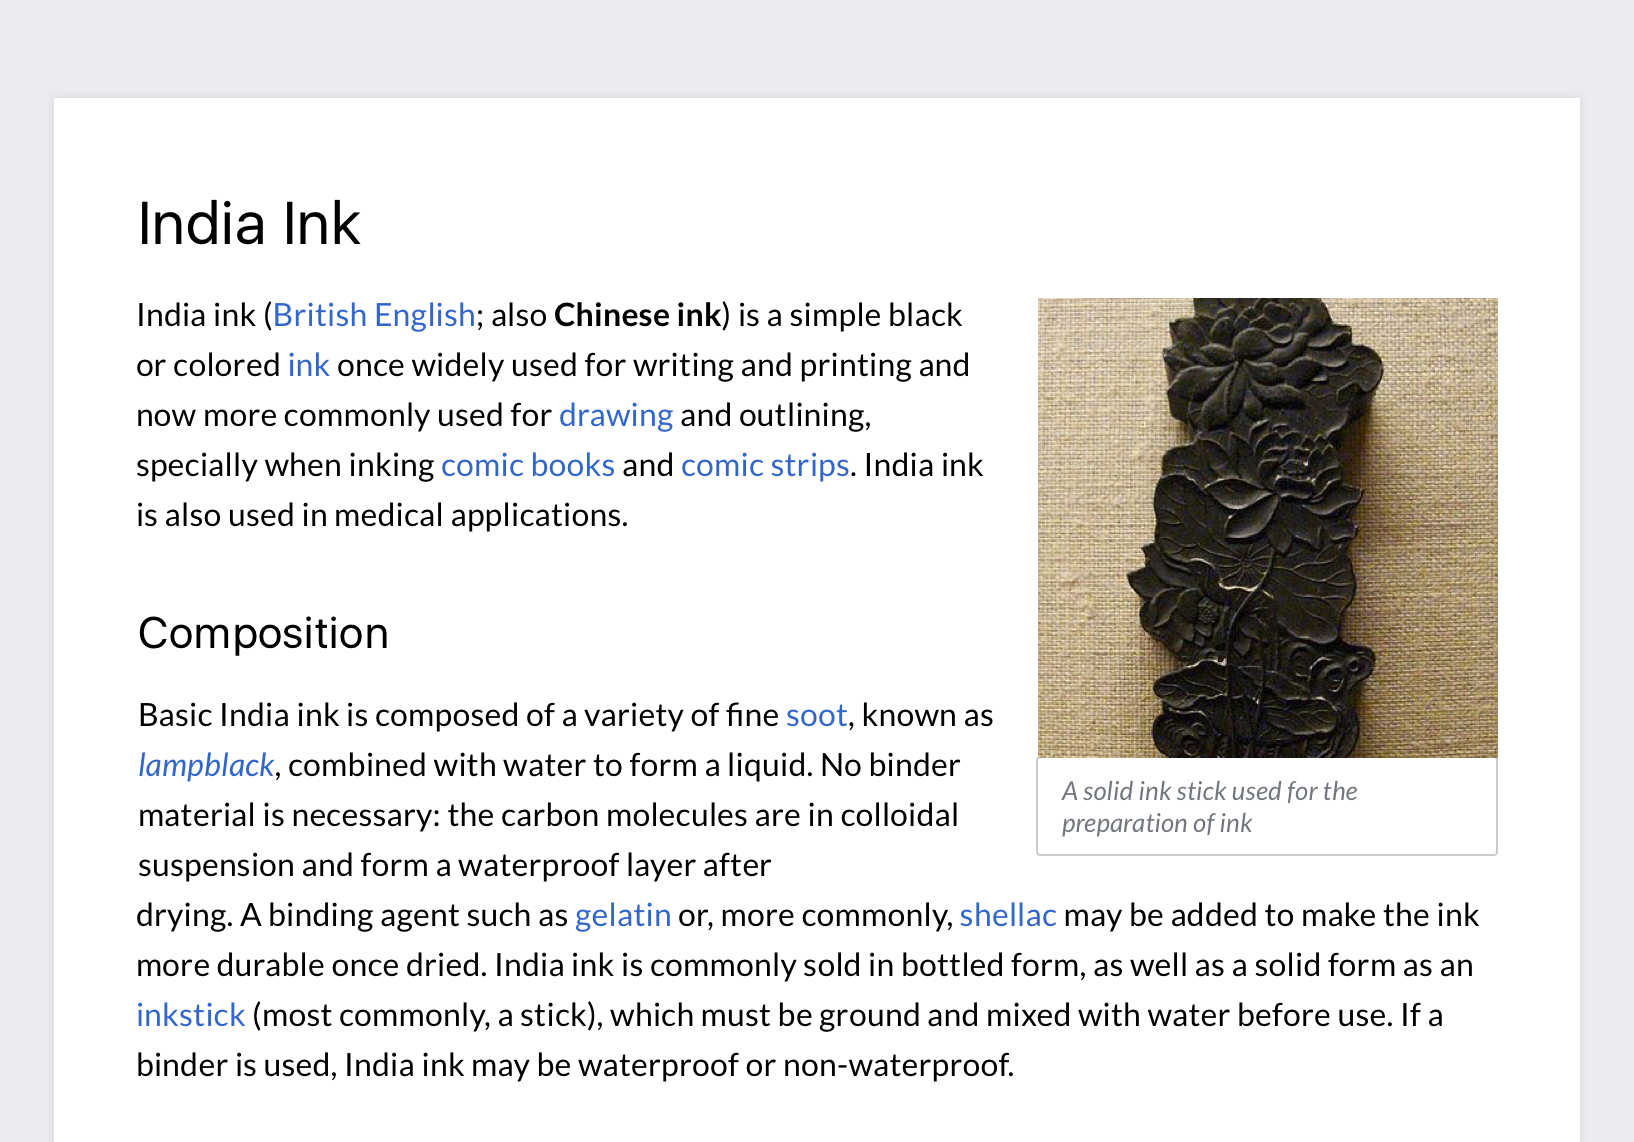
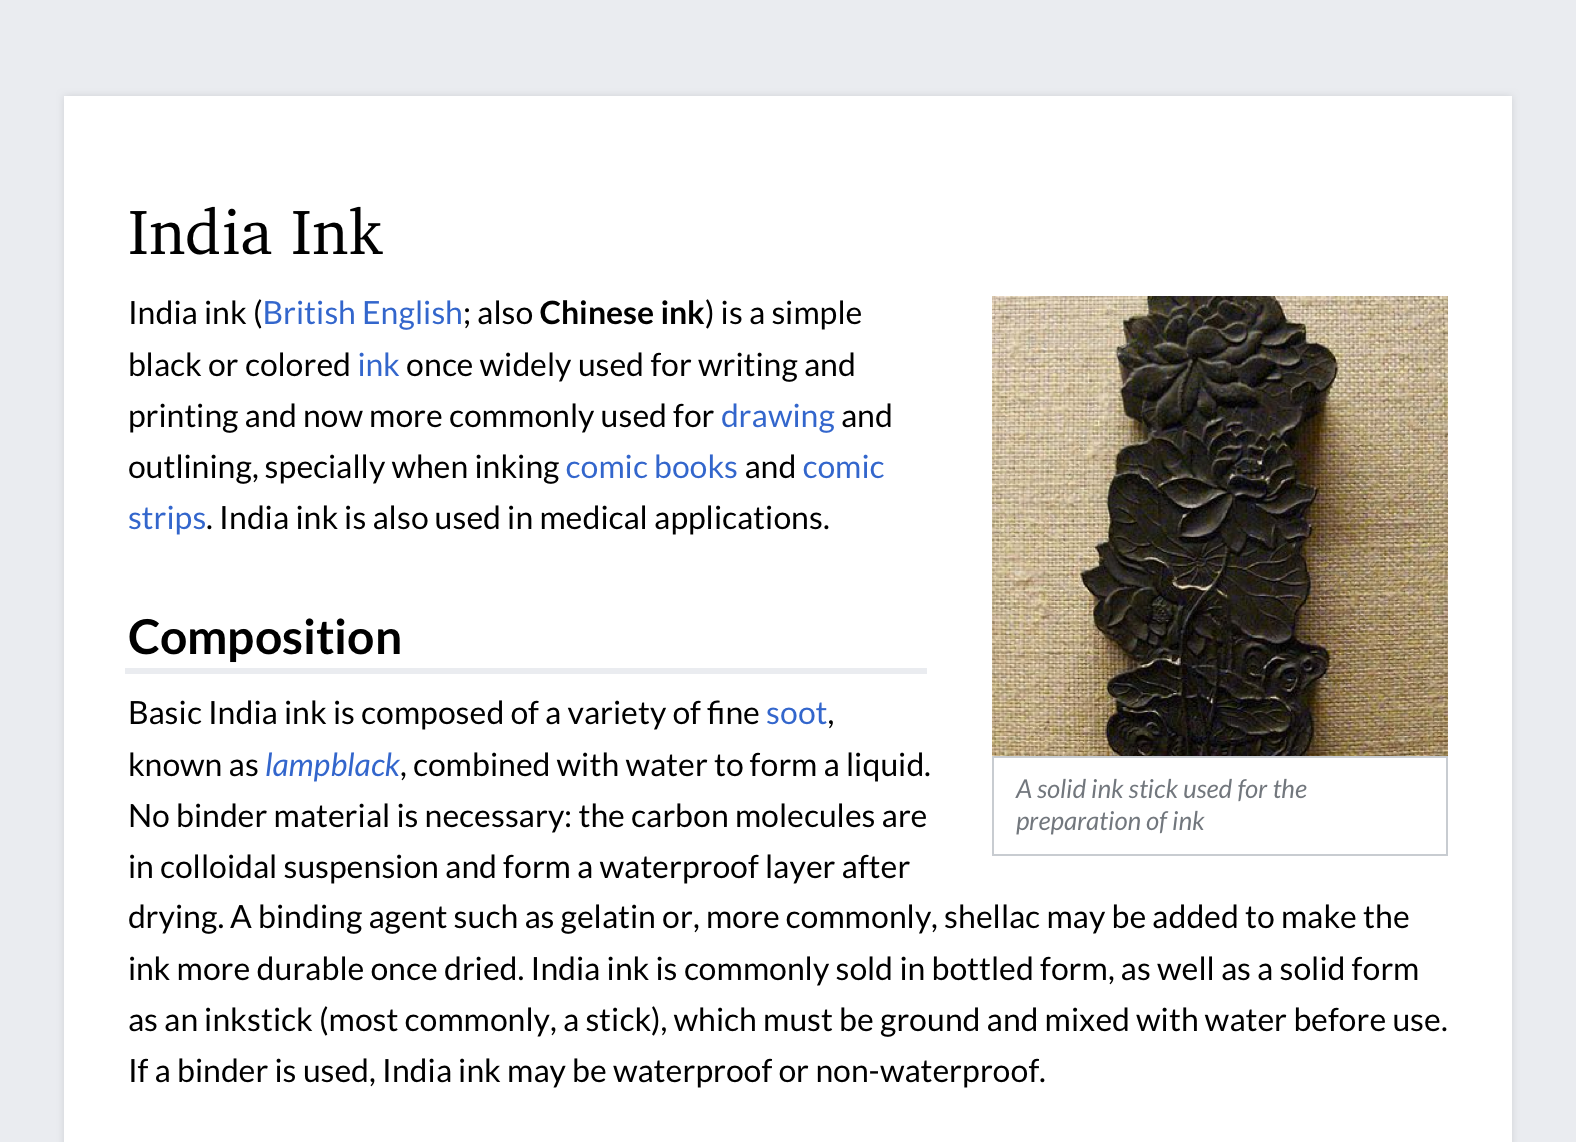
“Visual Style – Typography”: Use correct grid imagery (#164) Grid section accompanying image has been a SVG testbed that wasn't intended to make it into production yet. Updated both, grid and readability imagery to align with text styles below and modified image elements to align to grid itself.

Changed region(s): [[0.0311, 0.0919, 0.9638, 1.0]]

diff --git a/visual-style_typography.html b/visual-style_typography.html
@@ -67,11 +67,11 @@
 					<section id="readability">
 						<h2>Readability</h2>
 						<p>Content should be readable by everyone, regardless of their circumstances. Color blindess or the sun on a device's screen should not be barriers to access.</p>
-						<img src="img/visual-style/typography-readability.png" alt="Content typeset following the guidelines">
+						<img src="img/visual-style/typography-readability@2x.png" alt="Content typeset following the guidelines">
 
 						<h3>Grid</h3>
 						<p>Text layout is key to readability. Typographers and typesetters have been using grids to lay out text for centuries. We lay our content on a horizontal and a vertical grid.</p>
-						<img src="img/visual-style/typography-readability.svg" onerror="this.src='img/visual-style/typography-readability.png'" alt="Content typeset following the guidelines" role="img">
+						<img src="img/visual-style/typography-grid@2x.png" alt="Content layout aligning to grid" role="img">
 						<p>The whitespace between sections, complimentary block elements like images, and headings should be consistent and proportional to rest of the whitespace.</p>
 
 						<h3>Contrast</h3>
